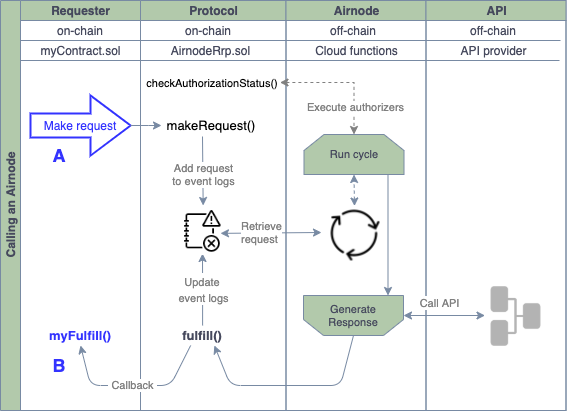
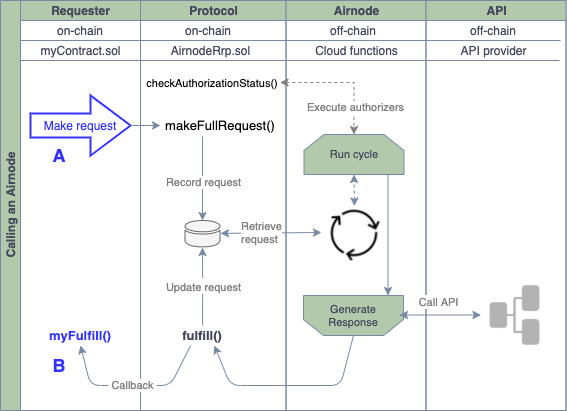
Update reference to fail() and errors Airnode no longer uses statusCodes. In stead an error message is sent to fail() and the request is removed from AirnodeRrp's storage. The request cal discover the failed request using `AirnodeRrp.requestIsAwaitingFulfillment()`.

diff --git a/docs/airnode/next/concepts/request.md b/docs/airnode/next/concepts/request.md
@@ -7,7 +7,7 @@ title: Request
 <TocHeader />
 <TOC class="table-of-contents" :include-level="[2,3,4]" />
 
-A request is made by a [requester](requester.md) to either the `makeFullRequest()` or `makeTemplateRequest()` function of the [AirnodeRrp.sol](README.md#airnoderrp-sol) protocol contract which adds the request to the event log. The targeted off-chain [Airnode](airnode.md) gathers the request from the event log and responds using the `fulFill()` function of AirnodeRrp.sol.
+A request is made by a [requester](requester.md) to either the `makeFullRequest()` or `makeTemplateRequest()` function of the [AirnodeRrp.sol](README.md#airnoderrp-sol) protocol contract which adds the request to its storage. The targeted off-chain [Airnode](airnode.md) gathers the request from AirnodeRrp.sol's storage and responds using the `fulFill()` function of AirnodeRrp.sol.
 
 >![concepts-request](../assets/images/concepts-request.png)
 
@@ -17,19 +17,19 @@ Learn more on how to [Call an Airnode](../grp-developers/call-an-airnode.md).
 
 The `requestId` uniquely identifies a request. When a requester makes a request using AirnodeRrp.sol, a `requestId` is generated before the request is added to the event logs and the requestId is returned to the requester. This `requestId` is a hash of certain data members depending on which type of request is made, `makeFullRequest()` or `makeTemplateRequest()`. They only differ in that one uses `endpointId` plus `airnode` address and the other `templateId` (since template already contains the `airnode` address). 
 
-|makeFullRequest()|makeTemplateRequest()|
-|:---------|:---------|
-|block.chainid|block.chainid|
-|address(this)|address(this)|
-|msg.sender|msg.sender|
+|makeFullRequest()    |makeTemplateRequest()|
+|:--------------------|:--------------------|
+|block.chainid        |block.chainid|
+|address(this)        |address(this)|
+|msg.sender           |msg.sender|
 |requesterRequestCount|requesterRequestCount|
-|---|airnode|
+|                     |airnode|
 |<span style="color:purple;font-weight:bold;">endpointId</span>|<span style="color:purple;font-weight:bold;">templateId</span>|
-|sponsor|sponsor|
-|sponsorWallet|sponsorWallet|
-|fulfillAddress|fulfillAddress|
-|fulfillFunctionId|fulfillFunctionId|
-|parameters|parameters|
+|sponsor              |sponsor|
+|sponsorWallet        |sponsorWallet|
+|fulfillAddress       |fulfillAddress|
+|fulfillFunctionId    |fulfillFunctionId|
+|parameters           |parameters|
 
 After the request (with `requestId`) is added to the event logs, Airnode gathers the request and verifies the `requestId` by re-computing its hash before responding to the request. This verifies the parameters have not been tampered with.
 
@@ -95,13 +95,15 @@ When a template is used to make a request, both the parameters encoded in `param
 
 A request made to an Airnode has three possible outcomes:
 
-- Fulfill
-- Fail
-- Ignore
+- [Fulfill](./request.md#fulfill)
+- [Fail](./request.md#fail)
+- [Ignore](./request.md#ignore)
 
 ### Fulfill
 
 `fulfill()` is the desired outcome and it will only be called if Airnode received a successful response from the API provider.
+
+> ![request-outcomes](../assets/images/request-outcomes.png)
 
 :::tip Note:
 Fulfill is the only outcome that returns results to a requester contract.
@@ -109,13 +111,9 @@ Fulfill is the only outcome that returns results to a requester contract.
 
 For a successful request, Airnode  calls the `fulfill()` function in AirnodeRrp.sol that will in turn call back the requester contract at `fulfillAddress` using function `fulfillFunctionId` to deliver `data`.
 
-`fulfill()` also receives a signature to validate on-chain that the response data was submitted by the Arinode.
-<Fix> This is to prevent requesters from fulfilling their own requests in order to manipulate data submitted by AirnodeRrp.sol. More details: https://api3workspace.slack.com/archives/C027Y2FAV0S/p1632668101023800</Fix>
+`fulfill()` also receives a signature to validate on-chain that the response data was submitted by the Airnode. This is to prevent requesters from fulfilling their own requests in order to manipulate data submitted by AirnodeRrp.sol.
 
 `fulfill()` will not revert if the `fulfillFunctionId` external call reverts. However, it will return `false` in this case or if there is no function with a matching signature at `fulfillAddress`. On the other hand, it will return `true` if the external call returns successfully or if there is no contract deployed at `fulfillAddress`. In the case `false` is returned then an error message will also be returned in a variable which can be decoded to retrieve the revert string. For example Airnode will decode this variable when this function returns `false` and call `fail()` on AirnodeRrp.sol with the revert string as the error message.
-
-<Fix>Needs to be updated based on the new flow described in [Fulfill](./request.md#fulfill)</Fix>
-> ![request-outcomes](../assets/images/request-outcomes.png)
 
 ### Fail
 
@@ -134,5 +132,4 @@ This means that Airnode will stop attempting to process the request in order to 
 
 ### Check if request is awaiting fulfillment
 
-There is also a convenience method in AirnodeRrp.sol called `requestIsAwaitingFulfillment()` that can be called to check if a request was made but not yet fulfilled/failed. If a requester has made a request, received a `requestId` but did not hear back, it can call this method to check if the Airnode has called back `fail()` instead.
-Returns `true` if the request is awaiting fulfillment (i.e., `true` if `fulfill()` or `fail()` is not called back yet), `false` otherwise.
+There is a convenience method in AirnodeRrp.sol called `requestIsAwaitingFulfillment()` that can be called to check if a request was made but not yet fulfilled/failed. If a requester has made a request, received a `requestId` but did not hear back, it can call this method to check if the Airnode has called back `fail()` instead.Returns `true` if the request is awaiting fulfillment (i.e., `true` if `fulfill()` or `fail()` is not called back yet), `false` otherwise.

diff --git a/docs/airnode/next/grp-developers/call-an-airnode.md b/docs/airnode/next/grp-developers/call-an-airnode.md
@@ -29,12 +29,7 @@ in the diagram below when calling an Airnode.
 
 > <img src="../assets/images/call-an-airnode.png"/>
 
-In the above diagram a requester makes a request to the AirnodeRrp.sol contract which emits an event. This event is
-retrieved by the Airnode during its next run cycle. It then verifies whether the request should be responded to by
-calling the [authorizers](../concepts/authorization.md). If the request is authorized, Airnode proceeds with creating
-a response transaction. It first gathers the requested data from the API and then attempts to call the `fulfill()`
-function in AirnodeRrp.sol which in turn makes a callback to the function `myFulfill` in the requester. This response
-transaction is covered by sponsor using the sponsor wallet.
+In the above diagram a requester makes a request to the AirnodeRrp.sol contract which stores the request. This request is retrieved by the Airnode during its next run cycle. It then verifies whether the request should be responded to by calling the [authorizers](../concepts/authorization.md). If the request is authorized, Airnode proceeds with creating a response transaction. It first gathers the requested data from the API and calls the `fulfill()` function in AirnodeRrp.sol which in turn makes a callback to the function `myFulfill` in the requester. The response's transaction gas costs are covered by the sponsor using their sponsor wallet associated with the Airnode the requester called.
 
 This remainder of this doc focuses on the requester implementation, it's deployment and sponsoring.
 
